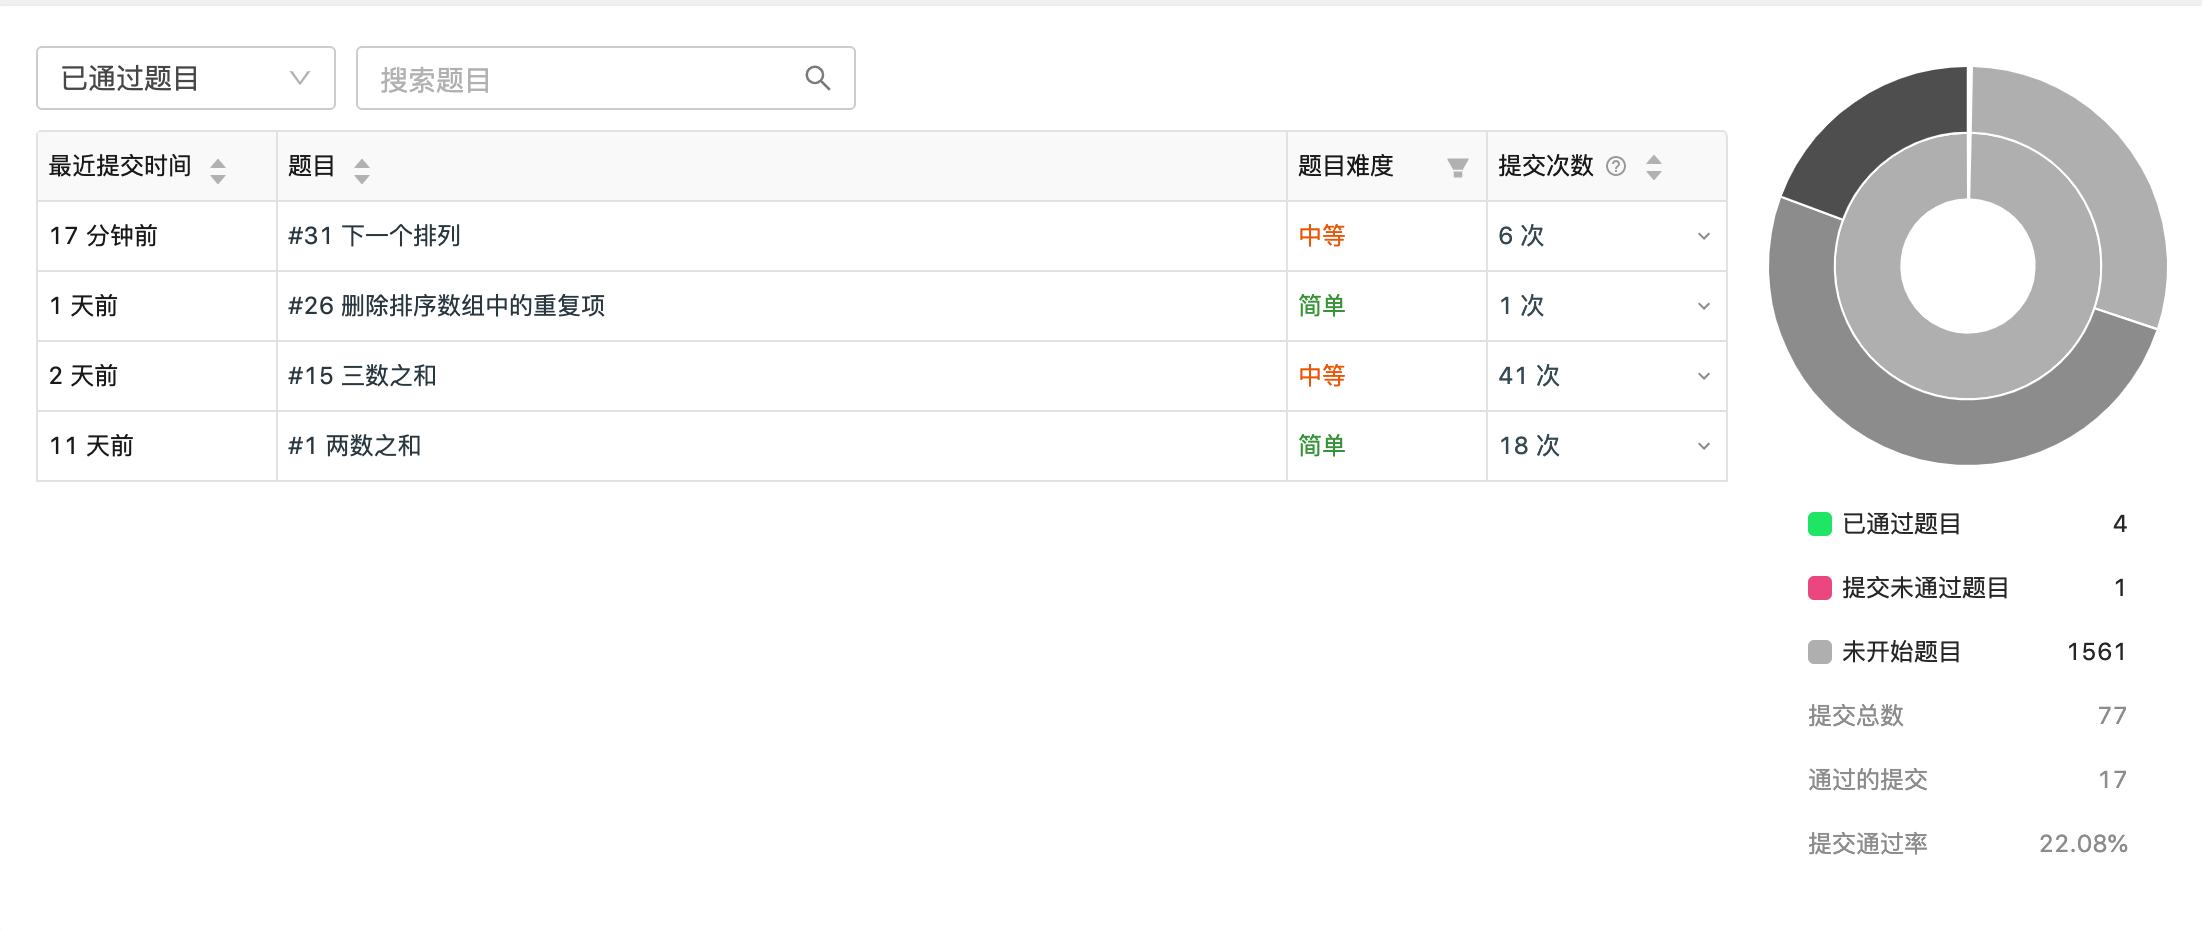
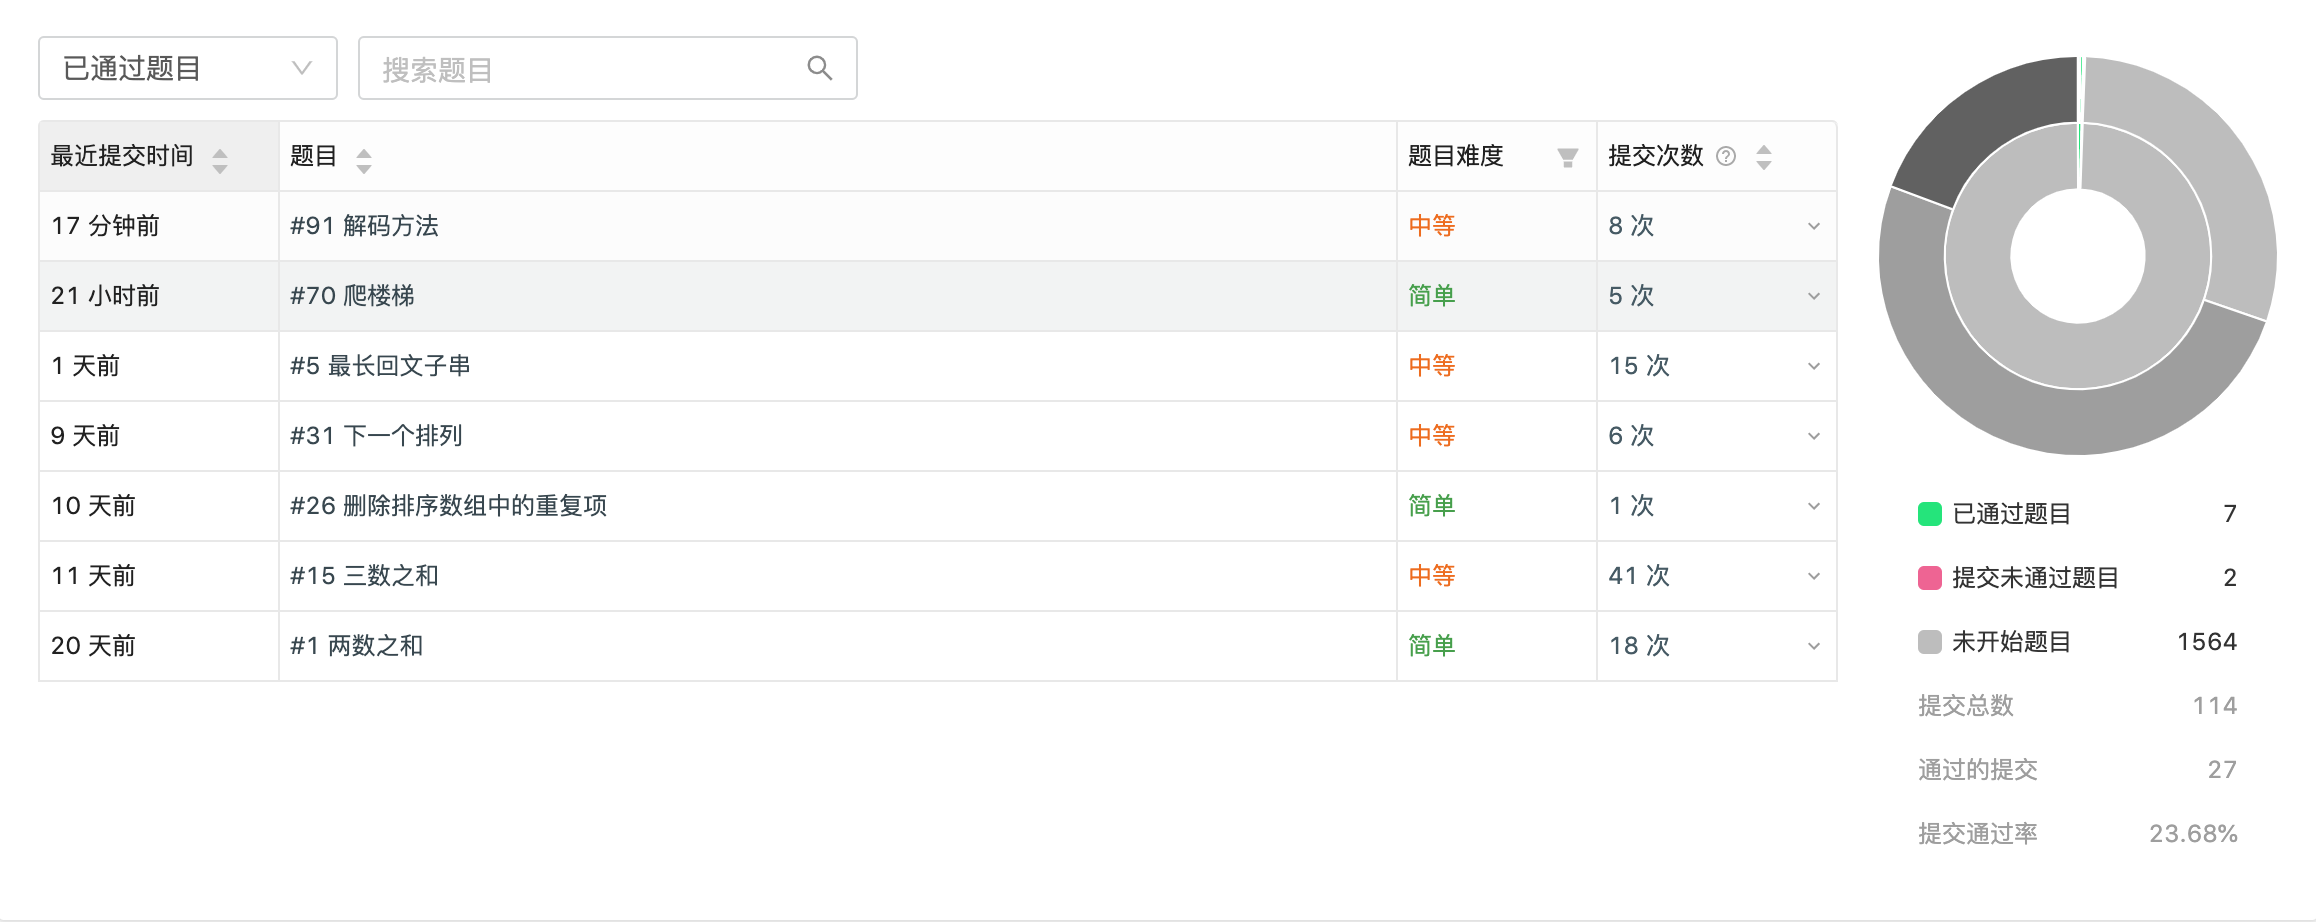
解码方法

diff --git a/huyi/week2-dynamic/解码方法.md b/huyi/week2-dynamic/解码方法.md
@@ -1,0 +1,75 @@
+## 解码方法
+
+### 题目
+```javascript
+//一条包含字母 A-Z 的消息通过以下方式进行了编码：
+//
+// 'A' -> 1
+//'B' -> 2
+//...
+//'Z' -> 26
+//
+//
+// 给定一个只包含数字的非空字符串，请计算解码方法的总数。
+//
+// 示例 1:
+//
+// 输入: "12"
+//输出: 2
+//解释: 它可以解码为 "AB"（1 2）或者 "L"（12）。
+//
+//
+// 示例 2:
+//
+// 输入: "226"
+//输出: 3
+//解释: 它可以解码为 "BZ" (2 26), "VF" (22 6), 或者 "BBF" (2 2 6) 。
+//
+// Related Topics 字符串 动态规划
+
+
+//leetcode submit region begin(Prohibit modification and deletion)
+/**
+ * @param {string} s
+ * @return {number}
+ */
+var numDecodings = function (s) {
+}
+//leetcode submit region end(Prohibit modification and deletion)
+```
+
+### 思路
+- 思路同爬楼梯中算法一致，只不过增加了楼层的判断，某种情况只能`1`某种情况只能`2`
+```javascript
+var numDecodings = function(s){
+  if (!s || s <= 0 || s[0] === '0') return 0;
+  if (s.length === 1 && s > 0) return 1;
+
+  var first = 1, second = 1;
+  for (var i = 1; i < s.length; i++) {
+    var temp = second;
+
+    if (s[i] === '0') {
+      // 当 s[i] == '0'时候，若 s[i - 1] 为 1 or 2 时，则 dp[i] = dp[i - 2], 即不计数；
+      if (s[i - 1] === '1' || s[i - 1] === '2')
+        second = first;
+      else
+        // 否则为 0
+        return 0;
+    } else if (s[i - 1] === '1' || (s[i - 1] === '2' && s[i] >= '1' && s[i] <= '6')) {
+      // 当 s[i - 1] = 1 时，dp[i] = dp[i-1] + dp[i-2], s[i] 和 s[i-1] 分开译码为 dp[i-1]; 合并 则为 dp[i-2]
+      // 当 s[i - 1] = 2 并且大于等于1小于等于6 时，同上
+      second = second + first;
+    }
+
+    first = temp;
+  }
+
+  return second;
+}
+```
+
+### 复杂度分析
+- 时间复杂度，`O(n)`
+- 空间复杂度，`O(1)`
+

diff --git a/huyi/readme.md b/huyi/readme.md
@@ -12,5 +12,6 @@
 ## [动态规划](./week2-dynamic)
 
 1. [最长回文子串](./week2-dynamic/最长回文子串.md)
-1. [爬楼梯](./week2-dynamic/爬楼梯.md)
+2. [爬楼梯](./week2-dynamic/爬楼梯.md)
+3. [解码方法](./week2-dynamic/解码方法.md)
 

diff --git a/huyi/week2-dynamic/readme.md b/huyi/week2-dynamic/readme.md
@@ -1,4 +1,5 @@
 
 ## 动态规划
 1. [最长回文子串](./最长回文子串.md)
-1. [爬楼梯](./爬楼梯.md)
+2. [爬楼梯](./爬楼梯.md)
+3. [解码方法](./解码方法.md)
